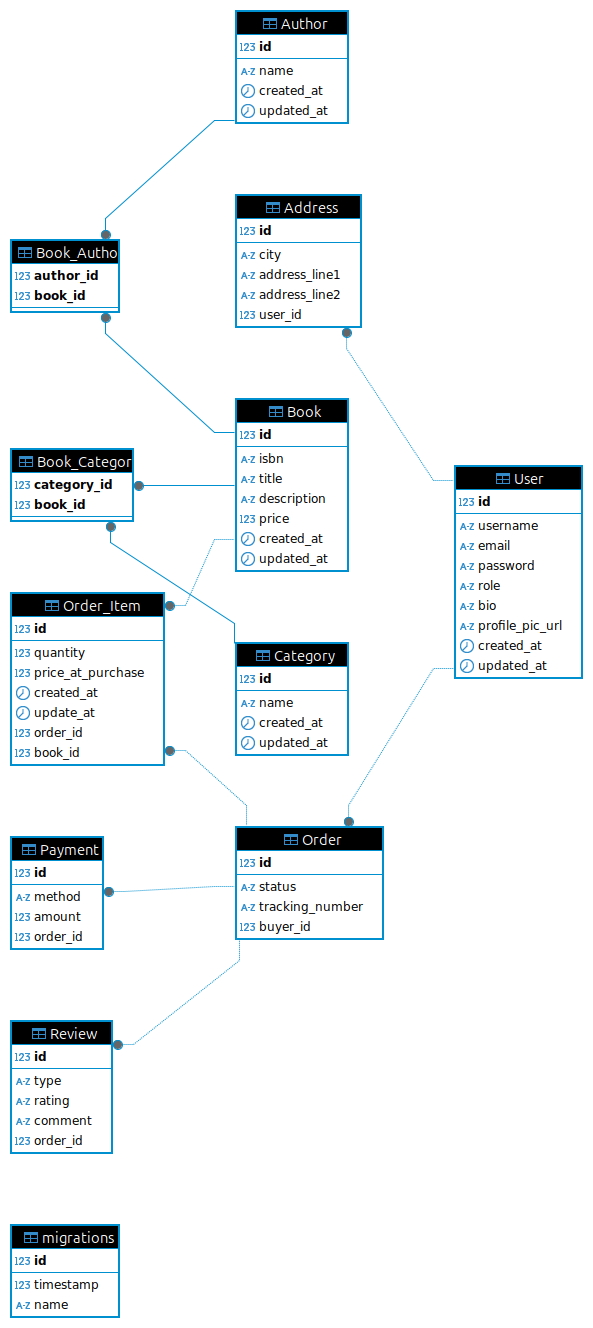
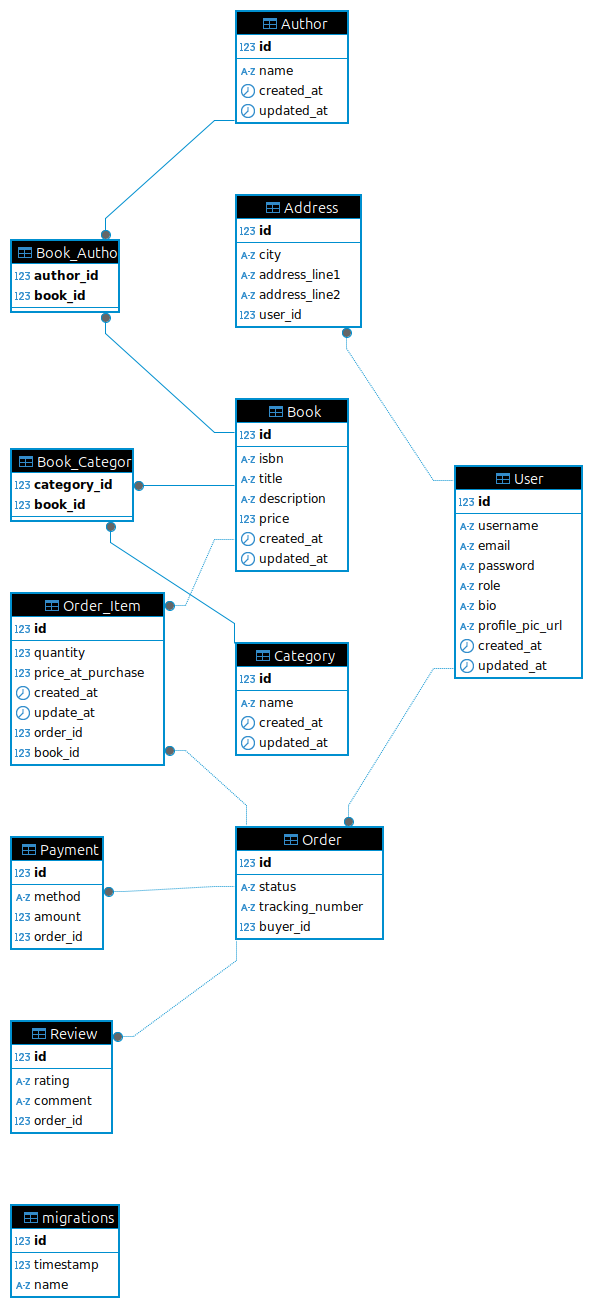
FIX: removed type from Review entity and table

diff --git a/server/src/migration/1736613104190-RemoveTypeFromReview.ts b/server/src/migration/1736613104190-RemoveTypeFromReview.ts
@@ -1,0 +1,14 @@
+import { MigrationInterface, QueryRunner } from "typeorm";
+
+export class RemoveTypeFromReview1736613104190 implements MigrationInterface {
+    name = 'RemoveTypeFromReview1736613104190'
+
+    public async up(queryRunner: QueryRunner): Promise<void> {
+        await queryRunner.query(`ALTER TABLE \`Review\` DROP COLUMN \`type\``);
+    }
+
+    public async down(queryRunner: QueryRunner): Promise<void> {
+        await queryRunner.query(`ALTER TABLE \`Review\` ADD \`type\` enum ('seller_to_buyer', 'buyer_to_seller') NOT NULL`);
+    }
+
+}

diff --git a/server/src/entity/Review.ts b/server/src/entity/Review.ts
@@ -1,5 +1,5 @@
 import { BaseEntity, Column, Entity, JoinColumn, OneToOne, PrimaryGeneratedColumn, Unique } from 'typeorm';
-import { ReviewRating, ReviewType } from '../types/reviewTypes.d.js';
+import { ReviewRating } from '../types/reviewTypes.d.js';
 import { Order } from './Order';
 
 @Entity('Review')
@@ -7,12 +7,6 @@ import { Order } from './Order';
 export class Review extends BaseEntity {
   @PrimaryGeneratedColumn()
   id: number;
-
-  @Column({
-    type: 'enum',
-    enum: ReviewType,
-  })
-  type: ReviewType;
 
   @Column({
     type: 'enum',
